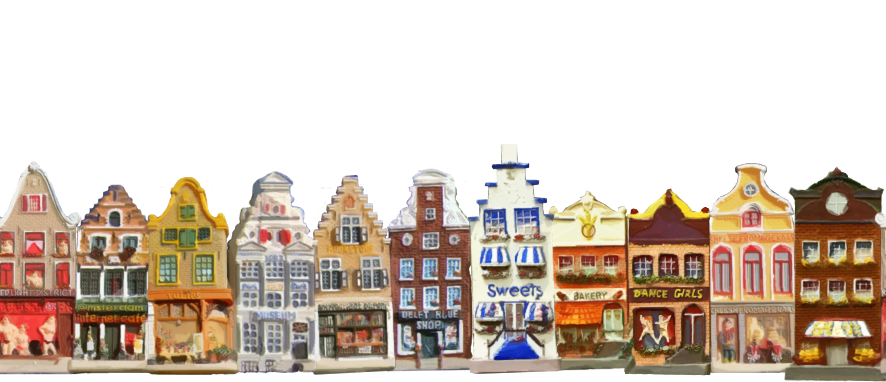
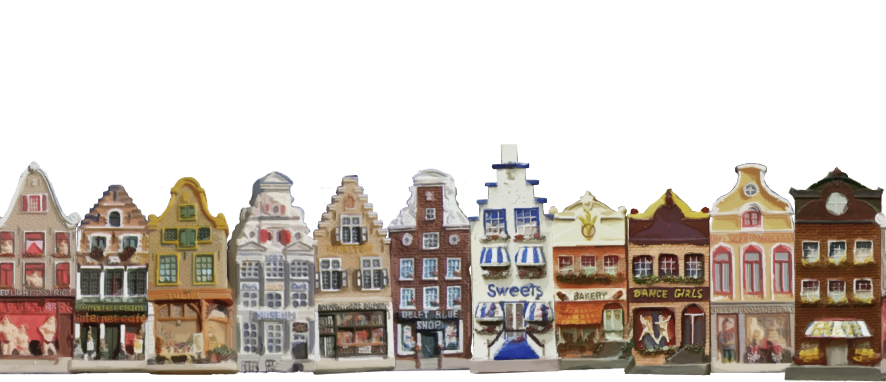
- Adding jetpack/space helmet to delivery monkey that appears based on tower height. - Adding new windmill for the background - Adding angry monkey to background - Tweaked saturation of the buildings in the foreground

diff --git a/trunk/projects/WeNeedMoreHumans/trunk/src/com/breaktrycatch/needmorehumans/view/GameView.java b/trunk/projects/WeNeedMoreHumans/trunk/src/com/breaktrycatch/needmorehumans/view/GameView.java
@@ -15,13 +15,13 @@ import com.breaktrycatch.lib.component.KeyboardManager;
 import com.breaktrycatch.lib.component.ManagerLocator;
 import com.breaktrycatch.lib.component.XBoxControllerManager;
 import com.breaktrycatch.lib.display.DisplayObject;
+import com.breaktrycatch.lib.display.ImageFrame;
 import com.breaktrycatch.lib.util.callback.ISimpleCallback;
 import com.breaktrycatch.lib.view.AbstractView;
 import com.breaktrycatch.needmorehumans.config.control.ColorController;
 import com.breaktrycatch.needmorehumans.control.camera.Simple2DCamera;
 import com.breaktrycatch.needmorehumans.control.display.Countdown;
 import com.breaktrycatch.needmorehumans.control.display.HeightMarker;
-import com.breaktrycatch.needmorehumans.control.display.HorizontalTileBackground;
 import com.breaktrycatch.needmorehumans.control.display.MonkeySpawner;
 import com.breaktrycatch.needmorehumans.control.display.ParallaxBackground;
 import com.breaktrycatch.needmorehumans.control.display.SkyObject;
@@ -36,7 +36,6 @@ import com.breaktrycatch.needmorehumans.model.BodyVO;
 import com.breaktrycatch.needmorehumans.tracing.callback.IThreadedImageAnalysisCallback;
 import com.breaktrycatch.needmorehumans.utils.ConfigTools;
 import com.breaktrycatch.needmorehumans.utils.FileUtils;
-import com.breaktrycatch.needmorehumans.utils.ImageUtils;
 import com.breaktrycatch.needmorehumans.utils.LogRepository;
 import com.breaktrycatch.needmorehumans.utils.RectUtils;
 import com.breaktrycatch.needmorehumans.utils.twitter.TwitterTowerMonitor;
@@ -116,6 +115,7 @@ public class GameView extends AbstractView
 		
 		int numClouds = 6;
 		HashMap<String, PImage> cloudTable = new HashMap<String, PImage>();
+		Rectangle cloudBounds = new Rectangle((int)(-_physControl.width), 0, (int) (_physControl.width * 2), (int) _physControl.height);
 		for (int i = 0; i < 40; i++)
 		{
 			int cloudType = (int) (Math.floor(Math.random() * numClouds)) + 1;
@@ -125,7 +125,6 @@ public class GameView extends AbstractView
 				cloudTable.put(filename, app.loadImage(filename));
 			}
 			
-			Rectangle cloudBounds = new Rectangle((int)(-_physControl.width), 0, (int) (_physControl.width * 2), (int) _physControl.height);
 			SkyObject cloud = new SkyObject(app, cloudBounds);
 			cloud.addFrame(cloudTable.get(filename));
 			cloud.setSpritePosition((int) (Math.random() * cloudBounds.width), (int) (Math.random() * (cloudBounds.height - 400)));
@@ -133,23 +132,34 @@ public class GameView extends AbstractView
 			_background.addLayer(cloud, .2f);
 		}
 		
-		DisplayObject city = _background.addHorizontalTilingLayer(app.loadImage("../data/world/blurry-city.png"), .2f);
-
+		DisplayObject windmill = _background.addLayer(new Windmill(app), .15f);
+		
+		SkyObject backgroundMonkey = new SkyObject(getApp(), cloudBounds);
+		backgroundMonkey.addFrame(app.loadImage("../data/world/ape-background.png"));
+		backgroundMonkey.setVelocity(1,0);
+		backgroundMonkey.x = (int)(Math.random() * cloudBounds.width);
+		_background.addLayer(backgroundMonkey, .15f);
+		
 		DisplayObject cityBack = _background.addHorizontalTilingLayer(app.loadImage("../data/world/amsterdam-buildings-back.png"), .1f);
 		DisplayObject cityFront = _background.addHorizontalTilingLayer(app.loadImage("../data/world/amsterdam-buildings-front.png"), .2f);
 		DisplayObject trees = _background.addHorizontalTilingLayer(app.loadImage("../data/world/far-grass.png"), .5f);
-		DisplayObject windmill = _background.addLayer(new Windmill(app), .7f);
 		DisplayObject ground = _background.addHorizontalTilingLayer(app.loadImage("../data/world/ground.png"), 1);
+		
 		
 		background.y = -app.height;
 		ground.y = _physControl.height - 7; // 7 is half the thickness of the
 		// physics ground plane
-		windmill.y = ground.y - windmill.height + 20;
-		city.y = ground.y - city.height;
+		windmill.y = ground.y - windmill.height - 70;
 		cityFront.y = ground.y - cityFront.height - 60;
 		cityBack.y = ground.y - cityBack.height;
 		trees.y = ground.y - trees.height;
 		background.y = ground.y - background.height;
+		backgroundMonkey.y = cityBack.y - backgroundMonkey.height / 3;
+
+		_deliveryMonkey = new MonkeySpawner(getApp());
+		_deliveryMonkey.visible = false;
+		_deliveryMonkey.setBounds(new Rectangle(0, 0, (int) _physControl.width, (int) _physControl.height));
+		_background.add(_deliveryMonkey);
 		
 		_zoomContainer.add(_background);
 		_heightMarker = new HeightMarker(app);
@@ -166,8 +176,8 @@ public class GameView extends AbstractView
 	{
 		PApplet app = getApp();
 		_physControl = new PhysicsControl(app);
-		_physControl.width = app.width * 4;
-		_physControl.height = app.height * 6;
+		_physControl.width = 4000;
+		_physControl.height = 10000;
 		_physControl.init();
 	}
 
@@ -379,12 +389,6 @@ public class GameView extends AbstractView
 	
 	private void introActiveSprite()
 	{
-		if(_deliveryMonkey == null)
-		{
-			_deliveryMonkey = new MonkeySpawner(getApp());
-			_deliveryMonkey.visible = false;
-			_background.add(_deliveryMonkey);
-		}
 		
 
 		final XBoxControllerManager controllerManager = (XBoxControllerManager) ManagerLocator.getManager(XBoxControllerManager.class);

diff --git a/trunk/projects/WeNeedMoreHumans/trunk/src/com/breaktrycatch/needmorehumans/control/display/MonkeySpawner.java b/trunk/projects/WeNeedMoreHumans/trunk/src/com/breaktrycatch/needmorehumans/control/display/MonkeySpawner.java
@@ -19,6 +19,8 @@ public class MonkeySpawner extends DisplayObject
 	private static ImageFrame _body;
 	private static ImageFrame _arm;
 	private static ImageFrame _ship;
+	private static ImageFrame _helmet;
+	private static ImageFrame _jetpack;
 
 	private DisplayObject _monkeyContainer;
 
@@ -27,6 +29,8 @@ public class MonkeySpawner extends DisplayObject
 	private final int MAX_SHAKES = 6;
 
 	private ISimpleCallback _onShakeComplete;
+
+	private Rectangle _bounds;
 
 	public MonkeySpawner(PApplet app)
 	{
@@ -37,35 +41,47 @@ public class MonkeySpawner extends DisplayObject
 			_body = new ImageFrame(app, app.loadImage("../data/world/ape-bottom.png"));
 			_arm = new ImageFrame(app, app.loadImage("../data/world/ape-arm.png"));
 			_ship = new ImageFrame(app, app.loadImage("../data/world/ape-ship.png"));
+
+			_helmet = new ImageFrame(app, app.loadImage("../data/world/monkey-space-helmet.png"));
+			_helmet.x = 480;
+			_helmet.y = 350;
+
+			_jetpack = new ImageFrame(app, app.loadImage("../data/world/monkey-jet-pack.png"));
+			_jetpack.x = 650;
+			_jetpack.y = 525;
 		}
 
 		_monkeyContainer = new DisplayObject(app);
 		add(_monkeyContainer);
+		_monkeyContainer.add(_jetpack);
 		_monkeyContainer.add(_body);
 		_monkeyContainer.add(_ship);
 		_monkeyContainer.add(_arm);
+		_monkeyContainer.add(_helmet);
 		_monkeyContainer.scaleX = _monkeyContainer.scaleY = .75f;
 
 		Rectangle bounds = _body.getBounds().union(_ship.getBounds().union(_arm.getBounds()));
 		width = bounds.width * _monkeyContainer.scaleX;
 		height = bounds.height * _monkeyContainer.scaleY;
 	}
-	
+
 	public void shake()
 	{
 		shake(null);
 	}
+
 	public void shake(ISimpleCallback onShakeComplete)
 	{
 		_onShakeComplete = onShakeComplete;
 		_numShakes = 0;
 		doShake();
 	}
+
 	private void doShake()
 	{
 		if (_numShakes >= MAX_SHAKES)
 		{
-			if(_onShakeComplete != null)
+			if (_onShakeComplete != null)
 			{
 				_onShakeComplete.execute();
 			}
@@ -74,6 +90,14 @@ public class MonkeySpawner extends DisplayObject
 		_numShakes++;
 		_arm.slideTo(10, -5, .05f);
 		_body.slideTo(10, -5, .05f);
+		if (_helmet.visible)
+		{
+			_helmet.slideTo((int) _helmet.x + 10, (int) _helmet.y - 5, .05f);
+		}
+		if (_jetpack.visible)
+		{
+			_jetpack.slideTo((int) _jetpack.x + 10, (int) _jetpack.y - 5, .05f);
+		}
 		_ship.slideTo((int) _ship.x, -10, .05f, null, new ISimpleCallback()
 		{
 			@Override
@@ -81,6 +105,16 @@ public class MonkeySpawner extends DisplayObject
 			{
 				_arm.slideTo(0, 0, .05f);
 				_body.slideTo(0, 0, .05f);
+
+				if (_helmet.visible)
+				{
+					_helmet.slideTo(480, 350, .05f);
+				}
+				if (_jetpack.visible)
+				{
+					_jetpack.slideTo(650, 525, .05f);
+				}
+
 				_ship.slideTo((int) _ship.x, 0, .05f, null, new ISimpleCallback()
 				{
 					@Override
@@ -91,6 +125,20 @@ public class MonkeySpawner extends DisplayObject
 				});
 			}
 		});
+	}
+
+	public void setBounds(Rectangle rect)
+	{
+		_bounds = rect;
+	}
+	
+	@Override
+	public void draw()
+	{
+		_jetpack.visible = (y < (_bounds.y + _bounds.height) - 2000);
+		_helmet.visible = (y < (_bounds.y + _bounds.height) - 5500);
+		
+		super.draw();
 	}
 
 	@Override

diff --git a/trunk/projects/WeNeedMoreHumans/trunk/src/com/breaktrycatch/needmorehumans/control/physics/PhysicsControl.java b/trunk/projects/WeNeedMoreHumans/trunk/src/com/breaktrycatch/needmorehumans/control/physics/PhysicsControl.java
@@ -14,6 +14,7 @@ import com.breaktrycatch.needmorehumans.model.BodyVO;
 import com.breaktrycatch.needmorehumans.model.PhysicsShapeDefVO;
 import com.breaktrycatch.needmorehumans.tracing.ThreadedImageAnalysis;
 import com.breaktrycatch.needmorehumans.tracing.callback.IThreadedImageAnalysisCallback;
+import com.breaktrycatch.needmorehumans.utils.ConfigTools;
 import com.breaktrycatch.needmorehumans.utils.LogRepository;
 import com.breaktrycatch.needmorehumans.utils.PhysicsUtils;
 
@@ -45,7 +46,10 @@ public class PhysicsControl extends DisplayObject
 	public void init()
 	{
 		_physWorld = new PhysicsWorldWrapper((float) width, (float) height);
-		_physWorld.enableDebugDraw(getApp());
+		if(ConfigTools.getBoolean("general", "debugMode"))
+		{
+			_physWorld.enableDebugDraw(getApp());
+		}
 		_threadedAnalysis = new ThreadedImageAnalysis(getApp());
 
 		PhysicsShapeDefVO vo = new PhysicsShapeDefVO();
@@ -61,6 +65,9 @@ public class PhysicsControl extends DisplayObject
 		bounds[3].setUserData(userData);
 		
 //		addDebugSmileBoxes();
+		
+		
+		
 	}
 
 	/**
@@ -112,9 +119,9 @@ public class PhysicsControl extends DisplayObject
 			_currentBody = _threadedAnalysis.get();
 			_processingComplete = true;
 			_isProcessingHuman = false;
-			
+
 			_onCompleteCallback.execute(_currentBody);
-			
+
 			addCurrentBody();
 		}
 	}
@@ -164,19 +171,17 @@ public class PhysicsControl extends DisplayObject
 
 		PhysicsUserDataVO userData = new PhysicsUserDataVO();
 		userData.display = sprite;
-		
-		/*
-		// Convert all of the extremity points to world space
-		Vec2 axisTransform = new Vec2(1, -1);
-		Vec2 offset = new Vec2(0.0f, 0.0f);
-		for (Vec2 extremity : analyzedBody.extremities)
-		{
-			PhysicsUtils.genericTransform(extremity, _physWorld.getPhysScale(), offset, axisTransform, true);
-		}
 
-		userData.extremities = analyzedBody.extremities;
-		*/
-	
+		/*
+		 * // Convert all of the extremity points to world space Vec2
+		 * axisTransform = new Vec2(1, -1); Vec2 offset = new Vec2(0.0f, 0.0f);
+		 * for (Vec2 extremity : analyzedBody.extremities) {
+		 * PhysicsUtils.genericTransform(extremity, _physWorld.getPhysScale(),
+		 * offset, axisTransform, true); }
+		 * 
+		 * userData.extremities = analyzedBody.extremities;
+		 */
+
 		userData.isHuman = true;
 		human.setUserData(userData);
 

diff --git a/trunk/projects/WeNeedMoreHumans/trunk/src/com/breaktrycatch/needmorehumans/control/display/Windmill.java b/trunk/projects/WeNeedMoreHumans/trunk/src/com/breaktrycatch/needmorehumans/control/display/Windmill.java
@@ -15,7 +15,7 @@ public class Windmill extends DisplayObject
 	private ImageFrame _windmillBase;
 	private ImageFrame _windmillBlades;
 
-	private float _rotationSpeed = 10;
+	private float _rotationSpeed = 4;
 	
 	/**
 	 * 
@@ -30,15 +30,18 @@ public class Windmill extends DisplayObject
 		
 		_windmillBase = new ImageFrame(app, app.loadImage("../data/world/windmill-base.png"));
 		_windmillBlades = new ImageFrame(app, app.loadImage("../data/world/windmill-blades.png"));
-		_windmillBlades.x = 37;
+		_windmillBlades.x = -80;
+		_windmillBlades.y = -100;
 		_windmillBlades.setRotateAroundCenter(true);
 		_windmillBlades.rotationRad = PhysicsUtils.degToRad((float)Math.random() * 360);
-		_rotationSpeed = PhysicsUtils.degToRad(5 + (float)Math.random() * 10);
+		_rotationSpeed = PhysicsUtils.degToRad(5 + (float)Math.random() * 4);
 		add(_windmillBase);
 		add(_windmillBlades);
 
 		width = (_windmillBase.width > _windmillBlades.width) ? (_windmillBase.width) : (_windmillBlades.width);
 		height = (_windmillBase.height > _windmillBlades.height) ? (_windmillBase.height) : (_windmillBlades.height);
+		
+		scaleX = scaleY = .65f;
 	}
 	
 	@Override

diff --git a/trunk/projects/WeNeedMoreHumans/trunk/src/com/breaktrycatch/needmorehumans/control/display/HeightMarker.java b/trunk/projects/WeNeedMoreHumans/trunk/src/com/breaktrycatch/needmorehumans/control/display/HeightMarker.java
@@ -62,16 +62,16 @@ public class HeightMarker extends DisplayObject
 		_shadowTextField.x = _textField.x + 2;
 		_shadowTextField.y = _textField.y + 2;
 		
-		PApplet app = getApp();
-		
-		int width = 75;
-		int height = 2;
-
-		app.fill(0x000000);
-		app.rect(-width + 2, 2, width, height);
-		
-		app.fill(0xffffffff);
-		app.rect(-width, 0, width, height);
+//		PApplet app = getApp();
+//		
+//		int width = 75;
+//		int height = 2;
+//
+//		app.fill(0x000000);
+//		app.rect(-width + 2, 2, width, height);
+//		
+//		app.fill(0xffffffff);
+//		app.rect(-width, 0, width, height);
 
 	}
 
